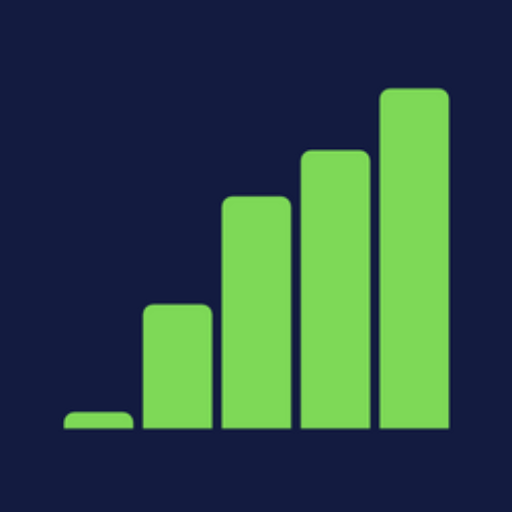
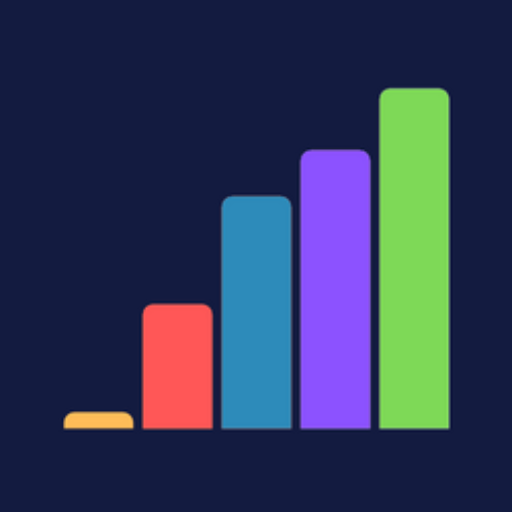
update v1.785

Changed region(s): [[0.125, 0.2812, 0.75, 0.8438]]

diff --git a/pages/index.js b/pages/index.js
@@ -55,7 +55,7 @@ export default function Home() {
       // Compute values.
       const X = d3.map(data, x);
       const Y = d3.map(data, y);
-
+      const colors = ["#ffbd59", "#ff5757", "#2d8bba", "#8C52FF", "#7ED957"];
       // Compute default domains, and unique the x-domain.
       if (xDomain === undefined) xDomain = X;
       if (yDomain === undefined) yDomain = [0, d3.max(Y)];
@@ -79,18 +79,19 @@ export default function Home() {
 
       const bar = svg
         .append("g")
-        .attr("fill", color)
         .selectAll("rect")
         .data(I)
         .join("rect")
+        .attr("fill", (i) => colors[i])
         .attr("x", (i) => xScale(X[i]))
         .attr("y", (i) => yScale(Y[i]))
         .attr("height", (i) => yScale(0) - yScale(Y[i]))
         .attr("width", xScale.bandwidth())
-        .attr("stroke", "white")
-        .attr("stroke-width", "5px")
+        // .attr("stroke", "white")
+        // .attr("stroke-width", "5px")
         .attr("rx", "0.5rem") // how much to round corners - to be transitioned below
-        .attr("ry", "0.5rem");
+        .attr("ry", "0.5rem")
+        .attr("opacity", 1);
 
       // function expandBars() {
       //   bar

diff --git a/components/AppBar.js b/components/AppBar.js
@@ -8,11 +8,19 @@ import styles from "../styles/Home.module.css";
 
 export default function ButtonAppBar() {
   return (
-    <Box elevation={0} sx={{ flexGrow: 1, backgroundColor: "#131b40" }}>
+    <Box
+      elevation={0}
+      sx={{
+        flexGrow: 1,
+        backgroundColor: "#131b40",
+      }}
+    >
       <AppBar
         elevation={0}
         position="static"
-        sx={{ backgroundColor: "#131b40" }}
+        sx={{
+          backgroundColor: "#131b40",
+        }}
       >
         <Toolbar>
           <TemporaryDrawer></TemporaryDrawer>
